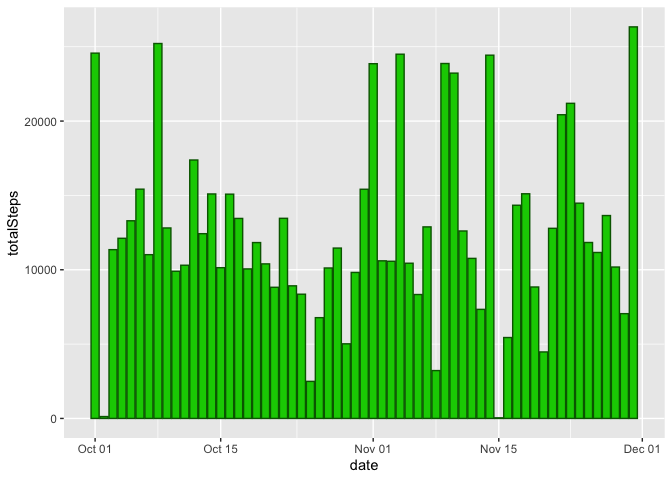
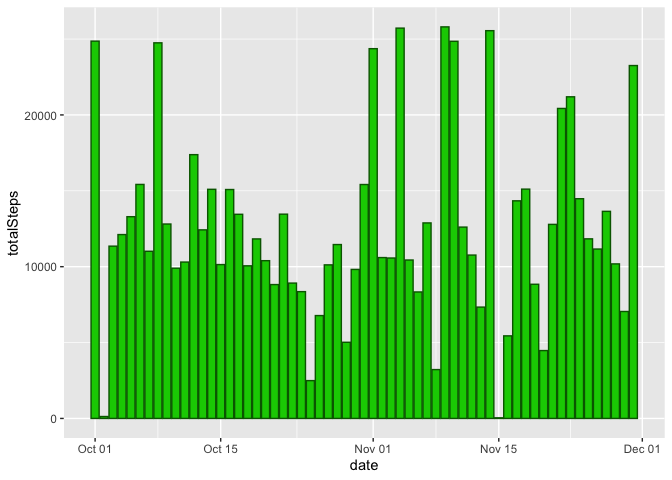
limited messages on amelia.

diff --git a/PA1_template.md b/PA1_template.md
@@ -5,14 +5,14 @@ R Markdown
 
     library(tidyverse)
 
-    ## ── Attaching packages ────────────────────── tidyverse 1.2.1 ──
+    ## ── Attaching packages ─────────────────
 
     ## ✔ ggplot2 3.2.1     ✔ purrr   0.3.2
     ## ✔ tibble  2.1.3     ✔ dplyr   0.8.3
     ## ✔ tidyr   1.0.0     ✔ stringr 1.4.0
     ## ✔ readr   1.3.1     ✔ forcats 0.4.0
 
-    ## ── Conflicts ───────────────────────── tidyverse_conflicts() ──
+    ## ── Conflicts ──────────────────────────
     ## ✖ dplyr::filter() masks stats::filter()
     ## ✖ dplyr::lag()    masks stats::lag()
 
@@ -93,28 +93,7 @@ R Markdown
     ## ## Refer to http://gking.harvard.edu/amelia/ for more information
     ## ##
 
-    amelia.fit <- amelia(PAdata, m=5, bound=matrix(c(1,0,200), nrow=1))
-
-    ## -- Imputation 1 --
-    ## 
-    ##   1  2
-    ## 
-    ## -- Imputation 2 --
-    ## 
-    ##   1  2
-    ## 
-    ## -- Imputation 3 --
-    ## 
-    ##   1  2
-    ## 
-    ## -- Imputation 4 --
-    ## 
-    ##   1  2
-    ## 
-    ## -- Imputation 5 --
-    ## 
-    ##   1  2
-
+    amelia.fit <- amelia(PAdata, m=5, bound=matrix(c(1,0,200), nrow=1), p2s=0)
     PAdata_impute <- amelia.fit$imputations[[5]]
     PAdata_impute_gb <- PAdata_impute %>% group_by(date)
     PAdata_impute_aggr <- summarize(PAdata_impute_gb, totalSteps=sum(steps))
